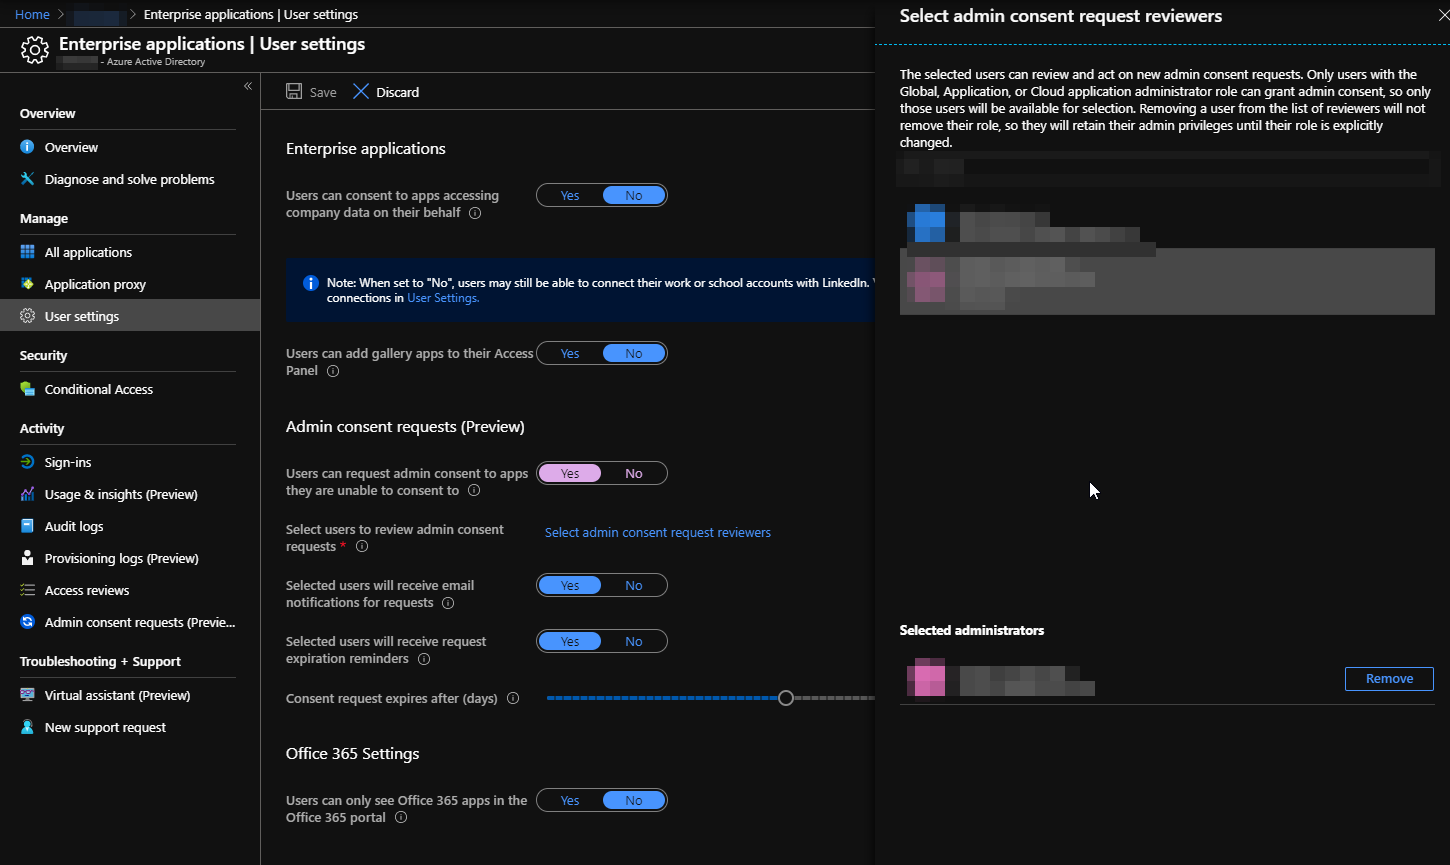
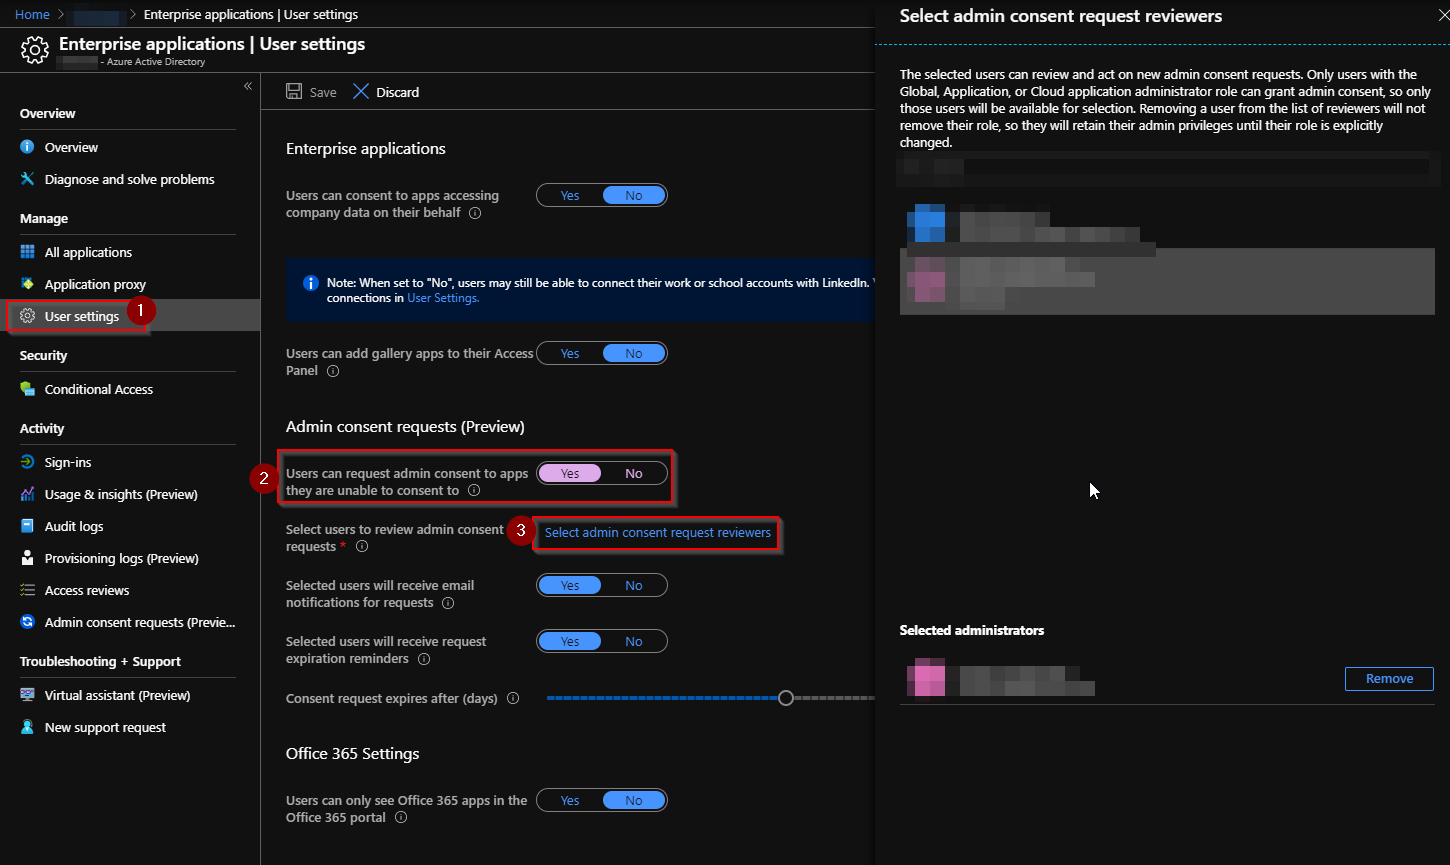
add method 2, add disable of existing app

Changed region(s): [[0.1552, 0.4994, 0.5586, 0.6555], [0.0, 0.3434, 0.1241, 0.4058]]

diff --git a/_posts/2020-05-07-Apple-Internet-Accounts-Office365.md b/_posts/2020-05-07-Apple-Internet-Accounts-Office365.md
@@ -60,3 +60,49 @@ Die App sollte nun in Azure AD unter "Enterprise applications" -> "All applicati
 Anschließend sollten die Anwender per iOS Kalender/Kontakte auf ihre in Exchange Online hinterlegten Daten zugreifen können.
 
 ### Lösungsmöglichkeit 2: Administrator-Anfragen aktivieren
+
+Alternativ kann aktiviert werden, dass Anwender die Genehmigung einer App beantragen können. Dies ist auch ergänzend zu der einmaligen administrativen Freigabe aus Lösung 1 möglich.
+
+#### Schritt 1
+
+Als Administrator in Azure AD ["Enterprise applications" -> "User settings"](https://portal.azure.com/#blade/Microsoft_AAD_IAM/StartboardApplicationsMenuBlade/UserSettings/menuId/){:target="_blank" rel="noopener noreferrer"} aufrufen. Unter "Admin consent requests (Preview)" kann die Option "Users can request admin consent to apps they are unable to consent to" aktiviert werden. Anschließend auf "Select admin consent request reviewers" klicken und die Administratoren auswählen, die die Requests bestätigen sollen. Bei Bedarf kann die Benachrichtigung des Administrators per E-Mail deaktiviert/aktiviert werden. Standardmäßig laufen die Anfragen nach 30 Tagen ab, was bei Bedarf auch angepasst werden kann.
+
+![Aktivieren von Enterprise Application Admin Consent Request in Azure AD](/img/2020/2020-05-07_EnterpriseApplication_AdminConsentRequest.png "Aktivieren von Enterprise Application Admin Consent Request in Azure AD")
+
+#### Schritt 2: Benutzer fragt Administrator-Zustimmung an
+
+Wenn ein Benutzer nun eine neue Applikation nutzen möchte, erscheint die Meldung "**Genehmigung erforderlich**". Die notwendigen Berechtigungen der Applikation werden aufgelistet. Der Benutzer muss eine Begründung für die Anfrage der Applikation eingeben. Anschließend kann die Genehmigungsanforderung abgesendet werden.
+
+![Hinweis für Endanwender bei Benutzung der App - Genehmigung erforderlich. Die Rechte der App werden aufgeführt. Es muss eine Begründung für die Anfrage eingegeben werden.](/img/2020/2020-05-07_RequestAdminConsent_as_enduser.png "Hinweis für Endanwender bei Benutzung der App - Genehmigung erforderlich. Die Rechte der App werden aufgeführt. Es muss eine Begründung für die Anfrage eingegeben werden.")
+
+#### Schritt 3: Administrator prüft die Genehmigungsanforderung
+
+Die ausgewählten Administratoren erhalten eine E-Mail, in der Details zur Anforderung aufgeführt werden. In der E-Mail kann auf "Anforderung überprüfen" geklickt werden, um die Anfrage zu bearbeiten. Falls bis zum Ablaufdatum nicht reagiert wird, wird die Anfrage automatisch zurückgewiesen.
+
+![Auflistung von Enterprise Application - Admin consent requests](/img/2020/2020-05-07_EnterpriseApplication_AdminConsentRequest_by_mail.png "Auflistung von Enterprise Application - Admin consent requests")
+
+Alternativ kann der Administrator auch die Liste der offenen Anfragen in Azure AD aufrufen. Hierzu ["Enterprise applications" -> "Admin consent requests"](https://portal.azure.com/#blade/Microsoft_AAD_IAM/StartboardApplicationsMenuBlade/AccessRequests/menuId/) anklicken.
+
+![Auflistung von Enterprise Application - Admin consent requests](/img/2020/2020-05-07_EnterpriseApplications_userreqeustlist.png "Auflistung von Enterprise Application - Admin consent requests")
+
+Es können Details wie Name, Homepage URL, verwendete Reply URLs angezeigt werden. Unter "Requested by" wird angezeigt, welcher Benutzer die App angefragt hat. Der Administrator kann nun wahlweise die Berechtigungen prüfen und genehmigen ("Review permissions and consent"), oder die Anfrage per "Deny" ablehnen. Falls die Applikation dauerhaft gesperrt werden soll, damit keine Anfragen mehr zu dieser App eingereicht werden können, kann "Block" angeklickt werden.
+![Abruf von Details zum Enterprise Application Admin consent request](/img/2020/2020-05-07_EnterpriseApplication_AdminConsent_Actions_and_infos.png "Abruf von Details zum Enterprise Application Admin consent request")
+
+Falls die Applikation nicht gestattet wurde, würde der Benutzer bei der nächsten Anmeldung die Meldung **AADSTS7000112** erhalten.
+![Applikation wurde durch den Administrator blockiert oder nicht genehmigt: AADSTS7000112 application is disabled](/img/2020/2020-05-07_AADSTS7000112_application_disabled.png "Applikation wurde durch den Administrator blockiert oder nicht genehmigt: AADSTS7000112 application is disabled")
+
+#### Schritt 4
+
+Anschließend sollten die Anwender die angefragte und genehmigte App verwenden können.
+
+## Deaktivieren einer zuvor erlaubten App
+
+Wenn eine App bereits erlaubt ist, kann sie deaktiviert werden. Hierzu ...
+![Deaktivieren einer bereits bestehenden Enterprise App: Enabled for users to sign-in auf No setzen.](/img/2020/2020-05-07_Disable_existing_enterpriseapp.png "Deaktivieren einer bereits bestehenden Enterprise App: Enabled for users to sign-in auf No setzen.")
+
+
+
+
+## Weiterführende Links
+
+https://office365.thorpick.de/ios-accounts-needs-permission-to-access-office-365-resources
